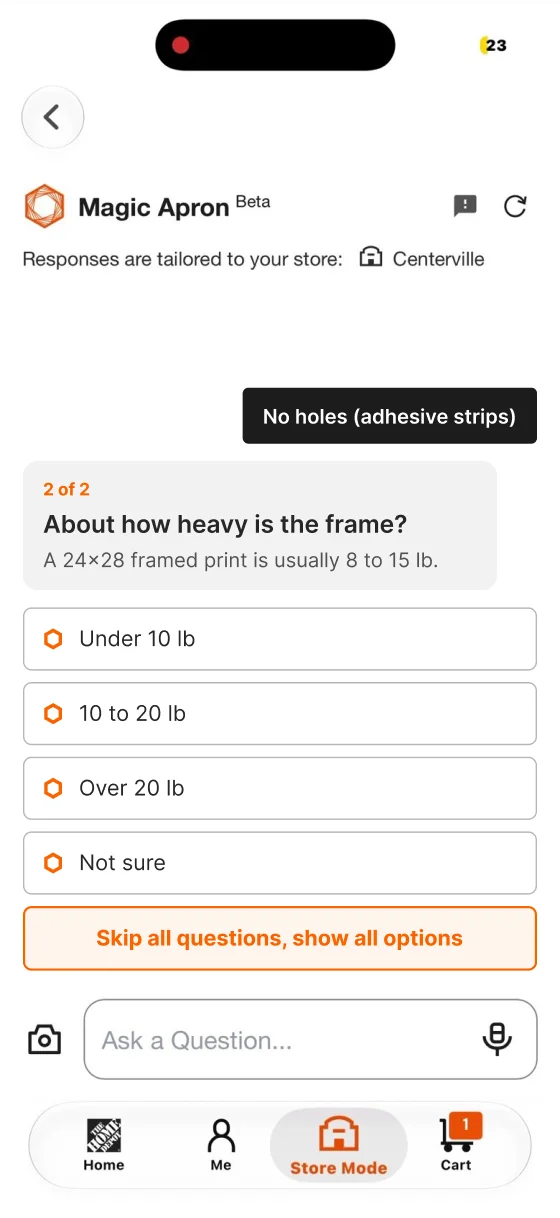
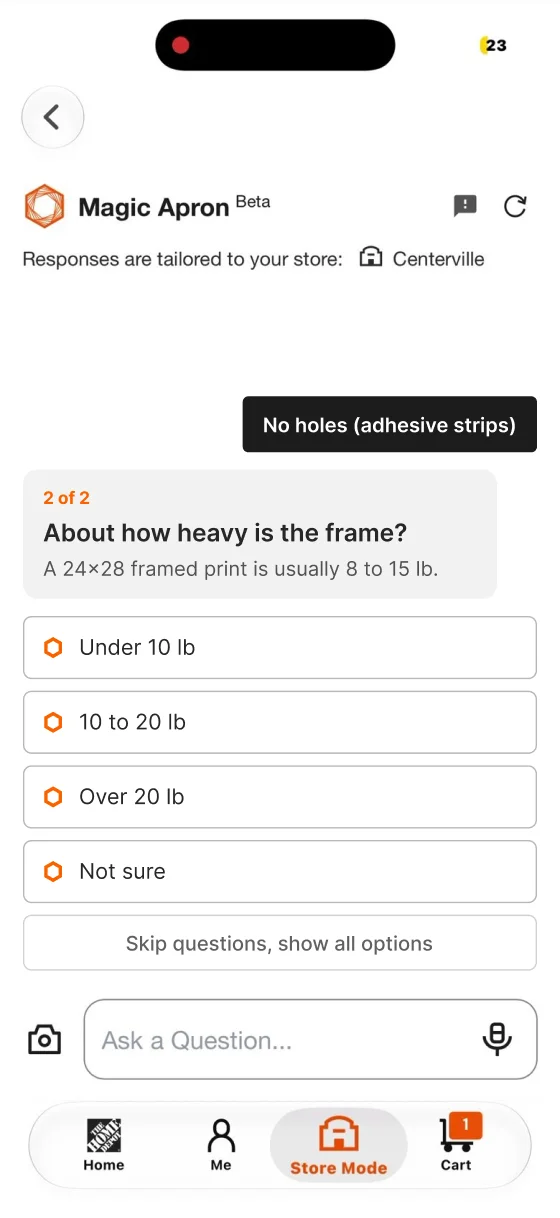
Add files via upload

Changed region(s): [[0.0304, 0.4992, 0.9714, 0.8112], [0.0607, 0.3744, 0.7286, 0.4992], [0.425, 0.312, 0.9714, 0.3744]]

diff --git a/cases/magic-apron.html b/cases/magic-apron.html
@@ -45,7 +45,7 @@
   <main id="main">
     <nav class="crumbs wrap" aria-label="Breadcrumb"><ol><li><a href="../index.html">Home</a></li><li><a href="../index.html#quick">Quick redesign</a></li><li aria-current="page">Magic Apron</li></ol></nav>
     <div class="wrap pdp">
-      <div class="pdp-phones"><div class="phones"><figure class="phone p1"><figcaption><span class="tag">Before</span><span class="sr">: </span>Store Mode today</figcaption><img src="../assets/magic-apron/c1-before.webp" alt="Store Mode answers with hanging kits only, with no adhesive strips." width="560" height="1218"></figure><span class="phones-sep" aria-hidden="true"><svg viewBox="0 0 24 24" fill="none" stroke="currentColor" stroke-linecap="round" stroke-linejoin="round" aria-hidden="true" focusable="false" stroke-width="2"><path d="M5 12h14M13 6l6 6-6 6"/></svg></span><figure class="phone p2"><figcaption><span class="tag after">After</span><span class="sr">: </span>Asks first</figcaption><img src="../assets/magic-apron/c1-after.webp" alt="Store Mode asks how you want to hang it, with three options and Skip all questions." width="560" height="1218"></figure></div></div>
+      <div class="pdp-phones"><div class="phones"><figure class="phone p1"><figcaption><span class="tag">Before</span><span class="sr">: </span>Store Mode today</figcaption><img src="../assets/magic-apron/c1-before.webp" alt="Store Mode answers with hanging kits only, with no adhesive strips." width="560" height="1218"></figure><span class="phones-sep" aria-hidden="true"><svg viewBox="0 0 24 24" fill="none" stroke="currentColor" stroke-linecap="round" stroke-linejoin="round" aria-hidden="true" focusable="false" stroke-width="2"><path d="M5 12h14M13 6l6 6-6 6"/></svg></span><figure class="phone p2"><figcaption><span class="tag after">After</span><span class="sr">: </span>Asks first</figcaption><img src="../assets/magic-apron/c1-after.webp" alt="Store Mode asks how you want to hang it, with three options and a quiet Skip questions button." width="560" height="1218"></figure></div></div>
       <div class="buy">
         <p class="label"><span class="chip c-concept">Concept</span><span>Retail app, AI assistant · 5 min read</span></p>
         <h1>Ask the right question, finish the task</h1>
@@ -74,7 +74,7 @@
         <div class="step-sub ia"><span class="eyebrow">Task analysis</span><p class="ia-intro">Each task broken into steps, with the screen where it happens. An ✕ or ! marks where the task breaks today. A ✓ shows the same step working after the redesign.</p>
           <h3 class="ia-task">Task 1 · Find the right product</h3>
           <div class="ia-row before"><figure class="ia-phone"><img src="../assets/magic-apron/c3-before.webp" alt="The user types Adhesive into the ask bar." width="560" height="1218" loading="lazy"><figcaption>Today: the user has to ask again.</figcaption></figure><div class="ia-flow"><p class="ia-h"><span class="tag">Before</span><span>Step by step</span></p><ol class="ia-steps" role="list"><li class="ok"><span class="ia-ico" aria-hidden="true">✓</span><span class="sr">Done: </span><b>Ask Magic Apron</b><span class="ia-d">&quot;What should I buy to hang a 24×28 frame?&quot;</span></li><li class="warn"><span class="ia-ico" aria-hidden="true">!</span><span class="sr">Friction: </span><b>Read a long answer</b><span class="ia-d">Only hanging kits. The questions sit at the end of the paragraph.</span></li><li class="fail"><span class="ia-ico" aria-hidden="true">✕</span><span class="sr">Fails: </span><b>Ask again</b><span class="ia-d">Types &quot;Adhesive&quot; to get the right item.</span></li><li class="ok"><span class="ia-ico" aria-hidden="true">✓</span><span class="sr">Done: </span><b>Strips appear</b><span class="ia-d">One extra loop later.</span></li></ol><p class="ia-res fail">Extra loop: the user asks twice.</p></div></div>
-          <div class="ia-row after"><figure class="ia-phone"><img src="../assets/magic-apron/c1-after.webp" alt="Magic Apron asks how you want to hang it, with three options and a Skip all questions button." width="560" height="1218" loading="lazy"><figcaption>Redesign: two taps, or skip them.</figcaption></figure><div class="ia-flow"><p class="ia-h"><span class="tag after">After</span><span>Step by step</span></p><ol class="ia-steps" role="list"><li class="ok"><span class="ia-ico" aria-hidden="true">✓</span><span class="sr">Done: </span><b>Ask Magic Apron</b><span class="ia-d">Same question.</span></li><li class="ok"><span class="ia-ico" aria-hidden="true">✓</span><span class="sr">Done: </span><b>Tap: how to hang it</b><span class="ia-d">No holes, nails or hooks, or not sure.</span></li><li class="ok"><span class="ia-ico" aria-hidden="true">✓</span><span class="sr">Done: </span><b>Tap: how heavy</b><span class="ia-d">Or skip all questions and see all options.</span></li><li class="ok"><span class="ia-ico" aria-hidden="true">✓</span><span class="sr">Done: </span><b>Right strips, with the aisle</b><span class="ia-d">Large first, Aisle 15 Bay 10.</span></li><li class="ok"><span class="ia-ico" aria-hidden="true">✓</span><span class="sr">Done: </span><b>Low stock? Buy for pickup</b><span class="ia-d">Pay now, it is set aside.</span></li></ol><p class="ia-res ok">Task complete: the right product, first time.</p></div></div>
+          <div class="ia-row after"><figure class="ia-phone"><img src="../assets/magic-apron/c1-after.webp" alt="Magic Apron asks how you want to hang it, with three options and a quiet Skip questions button." width="560" height="1218" loading="lazy"><figcaption>Redesign: two taps, or skip them.</figcaption></figure><div class="ia-flow"><p class="ia-h"><span class="tag after">After</span><span>Step by step</span></p><ol class="ia-steps" role="list"><li class="ok"><span class="ia-ico" aria-hidden="true">✓</span><span class="sr">Done: </span><b>Ask Magic Apron</b><span class="ia-d">Same question.</span></li><li class="ok"><span class="ia-ico" aria-hidden="true">✓</span><span class="sr">Done: </span><b>Tap: how to hang it</b><span class="ia-d">No holes, nails or hooks, or not sure.</span></li><li class="ok"><span class="ia-ico" aria-hidden="true">✓</span><span class="sr">Done: </span><b>Tap: how heavy</b><span class="ia-d">Or skip, with a quiet button.</span></li><li class="ok"><span class="ia-ico" aria-hidden="true">✓</span><span class="sr">Done: </span><b>Right strips, with the aisle</b><span class="ia-d">Large first, Aisle 15 Bay 10.</span></li><li class="ok"><span class="ia-ico" aria-hidden="true">✓</span><span class="sr">Done: </span><b>Low stock? Pick it up today</b><span class="ia-d">An option, with &quot;Not now&quot; right there.</span></li></ol><p class="ia-res ok">Task complete: the right product, first time.</p></div></div>
           <h3 class="ia-task">Task 2 · The product isn&#x27;t on the shelf</h3>
           <div class="ia-row before"><figure class="ia-phone"><img src="../assets/magic-apron/c7-before.webp" alt="After reporting, the app only shows Thanks for letting us know." width="560" height="1218" loading="lazy"><figcaption>Today: the report ends the flow.</figcaption></figure><div class="ia-flow"><p class="ia-h"><span class="tag">Before</span><span>Step by step</span></p><ol class="ia-steps" role="list"><li class="ok"><span class="ia-ico" aria-hidden="true">✓</span><span class="sr">Done: </span><b>Go to Aisle 15, Bay 10</b><span class="ia-d">The map shows the item in stock.</span></li><li class="fail"><span class="ia-ico" aria-hidden="true">✕</span><span class="sr">Fails: </span><b>Shelf is empty</b><span class="ia-d">The count was wrong.</span></li><li class="warn"><span class="ia-ico" aria-hidden="true">!</span><span class="sr">Friction: </span><b>Find the ••• menu</b><span class="ia-d">Small and unlabeled.</span></li><li class="ok"><span class="ia-ico" aria-hidden="true">✓</span><span class="sr">Done: </span><b>Report it</b><span class="ia-d">Out of Stock.</span></li><li class="fail"><span class="ia-ico" aria-hidden="true">✕</span><span class="sr">Fails: </span><b>&quot;Thanks for letting us know!&quot;</b><span class="ia-d">No next step. The shopper still has no product.</span></li></ol><p class="ia-res fail">Task not complete: no product.</p></div></div>
           <div class="ia-row after"><figure class="ia-phone"><img src="../assets/magic-apron/c7-after.webp" alt="A sheet asks Still need it today? with a similar item, a nearby store, or delivery." width="560" height="1218" loading="lazy"><figcaption>Redesign: three ways to finish.</figcaption></figure><div class="ia-flow"><p class="ia-h"><span class="tag after">After</span><span>Step by step</span></p><ol class="ia-steps" role="list"><li class="ok"><span class="ia-ico" aria-hidden="true">✓</span><span class="sr">Done: </span><b>Go to Aisle 15, Bay 10</b><span class="ia-d">Same as before.</span></li><li class="fail"><span class="ia-ico" aria-hidden="true">✕</span><span class="sr">Fails: </span><b>Shelf is empty</b><span class="ia-d">This can still happen.</span></li><li class="ok"><span class="ia-ico" aria-hidden="true">✓</span><span class="sr">Done: </span><b>Tap &quot;Can&#x27;t find it?&quot;</b><span class="ia-d">A labeled button on the card.</span></li><li class="ok"><span class="ia-ico" aria-hidden="true">✓</span><span class="sr">Done: </span><b>Report it, with Undo</b><span class="ia-d">The store still gets the signal.</span></li><li class="ok"><span class="ia-ico" aria-hidden="true">✓</span><span class="sr">Done: </span><b>Pick a way forward</b><span class="ia-d">Similar item, nearby store, or delivery.</span></li></ol><p class="ia-res ok">Task complete: the shopper leaves with a product, or one on its way.</p></div></div>
@@ -84,7 +84,7 @@
 
     <section class="step" id="ideate" data-step aria-labelledby="ideate-h">
       <div class="wrap">
-        <div class="step-grid"><div class="step-text"><span class="step-n"><span class="num" aria-hidden="true">3</span>Step 3 of 6 · Ideate</span><h2 id="ideate-h">Ideas I weighed, and what I picked</h2><p>I judged each idea on effort for the user, effort to build, and how much it changes the existing app.</p><ul class="points" role="list"><li>For problem 1, I considered showing every product type every time, keeping the questions in the paragraph, and a filter panel. I picked <b>tap-to-answer options for the 1 or 2 most important questions</b>, with &quot;Skip all questions&quot; so the user stays in charge.</li><li>For problem 2, I considered a thank-you toast, sending the shopper to an associate, and &quot;Notify me when it&#x27;s back.&quot; I picked <b>&quot;Still need it today?&quot;</b> with a similar item, a nearby store or delivery, and kept &quot;Notify me&quot; as a backup.</li><li>And when stock is low, I first tried <b>&quot;Reserve it&quot;</b> with no payment. A store can&#x27;t hold an item without one, so it became <b>&quot;Buy now, pick up today&quot;</b>: pay through the existing checkout, held until close, refunded automatically if not picked up.</li></ul></div><figure class="step-visual"><div class="frame auto"><div class="cv cv-cols"><div class="cv-card"><p class="cv-title">Task 1: 2 questions</p><ul role="list"><li>How do you want to hang it? This is the most important one.</li><li>About how heavy is the frame?</li><li>Skip all questions, show everything.</li></ul></div><div class="cv-card"><p class="cv-title">Task 2: 3 ways forward</p><ul role="list"><li>A similar item in the same aisle.</li><li>The same item at a nearby store.</li><li>Delivery, plus &quot;Notify me when it&#x27;s back.&quot;</li></ul></div></div></div><figcaption>The rule: ask only what changes the answer, and let the user skip.</figcaption></figure></div>
+        <div class="step-grid"><div class="step-text"><span class="step-n"><span class="num" aria-hidden="true">3</span>Step 3 of 6 · Ideate</span><h2 id="ideate-h">Ideas I weighed, and what I picked</h2><p>I judged each idea on effort for the user, effort to build, and how much it changes the existing app.</p><ul class="points" role="list"><li>For problem 1, I considered showing every product type every time, keeping the questions in the paragraph, and a filter panel. I picked <b>tap-to-answer options for the 1 or 2 most important questions</b>, with a quiet &quot;Skip questions&quot; for anyone who wants it, so answering stays the main path.</li><li>For problem 2, I considered a thank-you toast, sending the shopper to an associate, and &quot;Notify me when it&#x27;s back.&quot; I picked <b>&quot;Still need it today?&quot;</b> with a similar item, a nearby store or delivery, and kept &quot;Notify me&quot; as a backup.</li><li>And when stock is low, I first tried <b>&quot;Reserve it&quot;</b> with no payment. A store can&#x27;t hold an item without one, so it became an optional <b>&quot;Buy for pickup&quot;</b>: a simple sheet with the product photo, price and pickup place, and a &quot;Not now&quot; button. No pressure.</li></ul></div><figure class="step-visual"><div class="frame auto"><div class="cv cv-cols"><div class="cv-card"><p class="cv-title">Task 1: 2 questions</p><ul role="list"><li>How do you want to hang it? This is the most important one.</li><li>About how heavy is the frame?</li><li>A quiet &quot;Skip questions&quot; for anyone who wants it.</li></ul></div><div class="cv-card"><p class="cv-title">Task 2: 3 ways forward</p><ul role="list"><li>A similar item in the same aisle.</li><li>The same item at a nearby store.</li><li>Delivery, plus &quot;Notify me when it&#x27;s back.&quot;</li></ul></div></div></div><figcaption>The rule: ask only what changes the answer, and let the user skip.</figcaption></figure></div>
       </div>
     </section>
 
@@ -98,11 +98,11 @@
     <section class="step hl" id="redesign" data-step aria-labelledby="redesign-h">
       <div class="wrap">
         <div class="step-grid solo"><div class="step-text"><span class="step-n"><span class="num" aria-hidden="true">5</span>Step 5 of 6 · Redesign</span><h2 id="redesign-h">Six small changes, and the principle behind each</h2><p>Each pair shows the real app today next to my redesign of the same screen. Everything else stays as The Home Depot built it.</p></div></div><ol class="ba-list" role="list">
-            <li class="ba" id="change-1"><div class="phones"><figure class="phone p1"><figcaption><span class="tag">Before</span><span class="sr">: </span>The app today</figcaption><img src="../assets/magic-apron/c1-before.webp" alt="Store Mode answers with hanging kits only, with no adhesive strips." width="560" height="1218" loading="lazy"></figure><span class="phones-sep" aria-hidden="true"><svg viewBox="0 0 24 24" fill="none" stroke="currentColor" stroke-linecap="round" stroke-linejoin="round" aria-hidden="true" focusable="false" stroke-width="2"><path d="M5 12h14M13 6l6 6-6 6"/></svg></span><figure class="phone p2"><figcaption><span class="tag after">After</span><span class="sr">: </span>My redesign</figcaption><img src="../assets/magic-apron/c1-after.webp" alt="Store Mode asks, 1 of 2, most important: How do you want to hang it? Options: No holes (adhesive strips), Nails or hooks (permanent), Not sure, show both. Below: Skip all questions, show everything." width="560" height="1218" loading="lazy"></figure></div><div class="ba-text"><span class="dec-n">Change 1 · Store</span><h3>Ask the most important question first</h3><p>Instead of guessing &quot;hanging kit,&quot; Magic Apron asks how you want to hang it before it shows any product. In my interview, this one question would have caught &quot;adhesive.&quot;</p><p class="ba-why-h">UX principles</p><ul class="ba-why" role="list"><li><b>Error prevention.</b> It catches the wrong product before it is shown, not after.</li><li><b>Recognition over recall.</b> Three options to tap, instead of typing &quot;Adhesive.&quot;</li></ul></div></li>
-            <li class="ba" id="change-2"><div class="phones"><figure class="phone p1"><figcaption><span class="tag">Before</span><span class="sr">: </span>The app today</figcaption><img src="../assets/magic-apron/c2-before.webp" alt="Magic Apron asks about frame weight and installation at the end of a long paragraph." width="560" height="1218" loading="lazy"></figure><span class="phones-sep" aria-hidden="true"><svg viewBox="0 0 24 24" fill="none" stroke="currentColor" stroke-linecap="round" stroke-linejoin="round" aria-hidden="true" focusable="false" stroke-width="2"><path d="M5 12h14M13 6l6 6-6 6"/></svg></span><figure class="phone p2"><figcaption><span class="tag after">After</span><span class="sr">: </span>My redesign</figcaption><img src="../assets/magic-apron/c2-after.webp" alt="Question 2 of 2, About how heavy is the frame? A 24 by 28 framed print is usually 8 to 15 lb. Four options to tap and a Skip all questions link." width="560" height="1218" loading="lazy"></figure></div><div class="ba-text"><span class="dec-n">Change 2 · Store</span><h3>Questions as taps, with &quot;Skip all questions&quot;</h3><p>Questions move out of the paragraph into their own card, ranked by importance: 1 of 2, then 2 of 2. Every question has &quot;Skip all questions, show everything,&quot; so the shopper decides.</p><p class="ba-why-h">UX principles</p><ul class="ba-why" role="list"><li><b>Visibility.</b> A question that looks like a question gets answered.</li><li><b>User control and freedom.</b> Skip all questions at any point.</li><li><b>Hick&#x27;s law.</b> Three or four short options, not open text.</li></ul></div></li>
+            <li class="ba" id="change-1"><div class="phones"><figure class="phone p1"><figcaption><span class="tag">Before</span><span class="sr">: </span>The app today</figcaption><img src="../assets/magic-apron/c1-before.webp" alt="Store Mode answers with hanging kits only, with no adhesive strips." width="560" height="1218" loading="lazy"></figure><span class="phones-sep" aria-hidden="true"><svg viewBox="0 0 24 24" fill="none" stroke="currentColor" stroke-linecap="round" stroke-linejoin="round" aria-hidden="true" focusable="false" stroke-width="2"><path d="M5 12h14M13 6l6 6-6 6"/></svg></span><figure class="phone p2"><figcaption><span class="tag after">After</span><span class="sr">: </span>My redesign</figcaption><img src="../assets/magic-apron/c1-after.webp" alt="Store Mode asks, 1 of 2, most important: How do you want to hang it? Options: No holes (adhesive strips), Nails or hooks (permanent), Not sure, show both. Below, a quiet button: Skip questions, show all options." width="560" height="1218" loading="lazy"></figure></div><div class="ba-text"><span class="dec-n">Change 1 · Store</span><h3>Ask the most important question first</h3><p>Instead of guessing &quot;hanging kit,&quot; Magic Apron asks how you want to hang it before it shows any product. In my interview, this one question would have caught &quot;adhesive.&quot;</p><p class="ba-why-h">UX principles</p><ul class="ba-why" role="list"><li><b>Error prevention.</b> It catches the wrong product before it is shown, not after.</li><li><b>Recognition over recall.</b> Three options to tap, instead of typing &quot;Adhesive.&quot;</li></ul></div></li>
+            <li class="ba" id="change-2"><div class="phones"><figure class="phone p1"><figcaption><span class="tag">Before</span><span class="sr">: </span>The app today</figcaption><img src="../assets/magic-apron/c2-before.webp" alt="Magic Apron asks about frame weight and installation at the end of a long paragraph." width="560" height="1218" loading="lazy"></figure><span class="phones-sep" aria-hidden="true"><svg viewBox="0 0 24 24" fill="none" stroke="currentColor" stroke-linecap="round" stroke-linejoin="round" aria-hidden="true" focusable="false" stroke-width="2"><path d="M5 12h14M13 6l6 6-6 6"/></svg></span><figure class="phone p2"><figcaption><span class="tag after">After</span><span class="sr">: </span>My redesign</figcaption><img src="../assets/magic-apron/c2-after.webp" alt="Question 2 of 2, About how heavy is the frame? A 24 by 28 framed print is usually 8 to 15 lb. Four options to tap, and a quiet Skip questions button." width="560" height="1218" loading="lazy"></figure></div><div class="ba-text"><span class="dec-n">Change 2 · Store</span><h3>Questions as taps, answering comes first</h3><p>Questions move out of the paragraph into their own card, ranked by importance: 1 of 2, then 2 of 2. The answers are the big, clear choices. A quiet &quot;Skip questions, show all options&quot; stays at the bottom for anyone who wants it.</p><p class="ba-why-h">UX principles</p><ul class="ba-why" role="list"><li><b>Visibility.</b> A question that looks like a question gets answered.</li><li><b>User control and freedom.</b> Skipping is always possible, but quiet, so answering stays the main path.</li><li><b>Hick&#x27;s law.</b> Three or four short options, not open text.</li></ul></div></li>
             <li class="ba" id="change-3"><div class="phones"><figure class="phone p1"><figcaption><span class="tag">Before</span><span class="sr">: </span>The app today</figcaption><img src="../assets/magic-apron/c3-before.webp" alt="The user has to type &quot;Adhesive&quot; to get strips." width="560" height="1218" loading="lazy"></figure><span class="phones-sep" aria-hidden="true"><svg viewBox="0 0 24 24" fill="none" stroke="currentColor" stroke-linecap="round" stroke-linejoin="round" aria-hidden="true" focusable="false" stroke-width="2"><path d="M5 12h14M13 6l6 6-6 6"/></svg></span><figure class="phone p2"><figcaption><span class="tag after">After</span><span class="sr">: </span>My redesign</figcaption><img src="../assets/magic-apron/c3-after.webp" alt="For a 24 by 28 frame, 10 to 20 lb, with no holes, Large strips come first with the aisle, Aisle 15 Bay 10." width="560" height="1218" loading="lazy"></figure></div><div class="ba-text"><span class="dec-n">Change 3 · Store</span><h3>The right items, with the aisle</h3><p>The answer uses the shopper&#x27;s own words: no holes, 10 to 20 lb. Large strips come first, both in Aisle 15 Bay 10. Nails and hooks are one tap away, not the default.</p><p class="ba-why-h">UX principles</p><ul class="ba-why" role="list"><li><b>Match the real world.</b> Results repeat what the user chose.</li><li><b>Flexibility.</b> The other option is one tap away.</li></ul></div></li>
-            <li class="ba" id="change-4"><div class="phones"><figure class="phone p1"><figcaption><span class="tag">Before</span><span class="sr">: </span>The app today</figcaption><img src="../assets/magic-apron/c8-before.webp" alt="A card shows 4 in stock with no way to set one aside." width="560" height="1218" loading="lazy"></figure><span class="phones-sep" aria-hidden="true"><svg viewBox="0 0 24 24" fill="none" stroke="currentColor" stroke-linecap="round" stroke-linejoin="round" aria-hidden="true" focusable="false" stroke-width="2"><path d="M5 12h14M13 6l6 6-6 6"/></svg></span><figure class="phone p2"><figcaption><span class="tag after">After</span><span class="sr">: </span>My redesign</figcaption><img src="../assets/magic-apron/c8-after.webp" alt="A sheet says Only 2 left, buy now, pick up today: pick up at Centerville Customer Service, ready in about 2 hours and held until the store closes (example times). If not picked up, it is canceled and refunded automatically. Button: Continue to checkout." width="560" height="1218" loading="lazy"></figure></div><div class="ba-text"><span class="dec-n">Change 4 · Store</span><h3>Low stock? Buy now, pick up today</h3><p>When fewer than 5 are left, the card says &quot;Only 2 left&quot; with &quot;Buy for pickup.&quot; The shopper pays through the existing checkout, the store sets the item aside, and it is held until close. If it is not picked up, the order is canceled and refunded automatically.</p><p class="ba-why-h">UX principles</p><ul class="ba-why" role="list"><li><b>Visibility of system status.</b> Low stock is said in words, when it matters.</li><li><b>Business fit.</b> Paying first commits the item, and it reuses the pickup flow Home Depot already has.</li></ul></div></li>
-            <li class="ba" id="change-5"><div class="phones"><figure class="phone p1"><figcaption><span class="tag">Before</span><span class="sr">: </span>The app today</figcaption><img src="../assets/magic-apron/c6-before.webp" alt="The store map with the three-dot menu open: Wrong Location, Out of Stock, Inaccurate Inventory." width="560" height="1218" loading="lazy"></figure><span class="phones-sep" aria-hidden="true"><svg viewBox="0 0 24 24" fill="none" stroke="currentColor" stroke-linecap="round" stroke-linejoin="round" aria-hidden="true" focusable="false" stroke-width="2"><path d="M5 12h14M13 6l6 6-6 6"/></svg></span><figure class="phone p2"><figcaption><span class="tag after">After</span><span class="sr">: </span>My redesign</figcaption><img src="../assets/magic-apron/c6-after.webp" alt="The store map card now has a Can&#x27;t find it? button next to the stock count." width="560" height="1218" loading="lazy"></figure></div><div class="ba-text"><span class="dec-n">Change 5 · Store</span><h3>A visible &quot;Can&#x27;t find it?&quot; button</h3><p>A labeled button on the product card replaces the small three-dot menu.</p><p class="ba-why-h">UX principles</p><ul class="ba-why" role="list"><li><b>Fitts&#x27;s law.</b> A labeled button beats a small three-dot target.</li></ul></div></li>
+            <li class="ba" id="change-4"><div class="phones"><figure class="phone p1"><figcaption><span class="tag">Before</span><span class="sr">: </span>The app today</figcaption><img src="../assets/magic-apron/c8-before.webp" alt="A card shows 4 in stock with no way to set one aside." width="560" height="1218" loading="lazy"></figure><span class="phones-sep" aria-hidden="true"><svg viewBox="0 0 24 24" fill="none" stroke="currentColor" stroke-linecap="round" stroke-linejoin="round" aria-hidden="true" focusable="false" stroke-width="2"><path d="M5 12h14M13 6l6 6-6 6"/></svg></span><figure class="phone p2"><figcaption><span class="tag after">After</span><span class="sr">: </span>My redesign</figcaption><img src="../assets/magic-apron/c8-after.webp" alt="A simple sheet asks Want to pick it up today? It shows a photo of Command Large strips, $5.47, Only 2 left at Centerville, the pickup place, a Buy for pickup button and a Not now button." width="560" height="1218" loading="lazy"></figure></div><div class="ba-text"><span class="dec-n">Change 4 · Store</span><h3>Low stock? Offer pickup today</h3><p>When fewer than 5 are left, a light &quot;Only 2 left&quot; note appears with &quot;Buy for pickup.&quot; Tapping it opens a simple sheet: the product photo, the price, and where to pick it up. &quot;Not now&quot; is right there, so it is an option, not pressure.</p><p class="ba-why-h">UX principles</p><ul class="ba-why" role="list"><li><b>Aesthetic and minimalist design.</b> Only what you need to decide: photo, price and pickup place.</li><li><b>User control and freedom.</b> &quot;Not now&quot; closes it. Buying is a choice, not a push.</li></ul></div></li>
+            <li class="ba" id="change-5"><div class="phones"><figure class="phone p1"><figcaption><span class="tag">Before</span><span class="sr">: </span>The app today</figcaption><img src="../assets/magic-apron/c6-before.webp" alt="The store map with the three-dot menu open: Wrong Location, Out of Stock, Inaccurate Inventory." width="560" height="1218" loading="lazy"></figure><span class="phones-sep" aria-hidden="true"><svg viewBox="0 0 24 24" fill="none" stroke="currentColor" stroke-linecap="round" stroke-linejoin="round" aria-hidden="true" focusable="false" stroke-width="2"><path d="M5 12h14M13 6l6 6-6 6"/></svg></span><figure class="phone p2"><figcaption><span class="tag after">After</span><span class="sr">: </span>My redesign</figcaption><img src="../assets/magic-apron/c6-after.webp" alt="The store map card now has a Can&#x27;t find it? button at the top right of the product card." width="560" height="1218" loading="lazy"></figure></div><div class="ba-text"><span class="dec-n">Change 5 · Store</span><h3>A visible &quot;Can&#x27;t find it?&quot; button</h3><p>A labeled button on the product card replaces the small three-dot menu.</p><p class="ba-why-h">UX principles</p><ul class="ba-why" role="list"><li><b>Fitts&#x27;s law.</b> A labeled button beats a small three-dot target.</li></ul></div></li>
             <li class="ba" id="change-6"><div class="phones"><figure class="phone p1"><figcaption><span class="tag">Before</span><span class="sr">: </span>The app today</figcaption><img src="../assets/magic-apron/c7-before.webp" alt="After reporting, the app only shows Thanks for letting us know." width="560" height="1218" loading="lazy"></figure><span class="phones-sep" aria-hidden="true"><svg viewBox="0 0 24 24" fill="none" stroke="currentColor" stroke-linecap="round" stroke-linejoin="round" aria-hidden="true" focusable="false" stroke-width="2"><path d="M5 12h14M13 6l6 6-6 6"/></svg></span><figure class="phone p2"><figcaption><span class="tag after">After</span><span class="sr">: </span>My redesign</figcaption><img src="../assets/magic-apron/c7-after.webp" alt="A sheet confirms the report with an Undo and asks Still need it today?, with three ways to finish: similar item same aisle, same item at a nearby store, or delivery." width="560" height="1218" loading="lazy"></figure></div><div class="ba-text"><span class="dec-n">Change 6 · Store</span><h3>Report, then finish the task</h3><p>The shopper still gets a thank-you, plus &quot;Still need it today?&quot; with a similar item in the same aisle, the same item at a nearby store, or delivery. There is an Undo, and &quot;Notify me when it&#x27;s back.&quot;</p><p class="ba-why-h">UX principles</p><ul class="ba-why" role="list"><li><b>Help users recover from errors.</b> The task ends with the product, not a dead end.</li><li><b>User control and freedom.</b> Undo, if it was reported by mistake.</li></ul></div></li>
           </ol>
       </div>
@@ -110,7 +110,7 @@
 
     <section class="step" id="measure" data-step aria-labelledby="measure-h">
       <div class="wrap">
-        <div class="step-grid"><div class="step-text"><span class="step-n"><span class="num" aria-hidden="true">6</span>Step 6 of 6 · Measure</span><h2 id="measure-h">How I&#x27;d measure it</h2><p>These are hypotheses, not results. I&#x27;d test them on Magic Apron sessions and watch:</p><ul class="points" role="list"><li>How often people have to ask again in the same chat</li><li>How often people answer the questions or skip them</li><li>Add-to-cart rate, and pickup orders on low-stock items</li><li>&quot;Can&#x27;t find it&quot; reports that still end in a purchase</li></ul><p class="why"><b>A trade-off I named:</b> every question costs a tap. That&#x27;s why there are only two, the most important one comes first, and &quot;Skip all questions&quot; is always there.</p></div><figure class="step-visual"><div class="frame auto"><div class="cv cv-card"><p class="cv-title">Why the business cares</p><ul role="list"><li><b>Trust.</b><span>Fewer re-asks means more trust in the AI, so people use it more.</span></li><li><b>Saved sales.</b><span>An empty shelf that offers another option is a saved sale, not a lost one.</span></li><li><b>Better inventory.</b><span>The report still reaches the store.</span></li><li><b>Cheap to test.</b><span>Small patches on existing screens are cheap to build and easy to test.</span></li></ul></div></div></figure></div><div class="step-sub"><span class="eyebrow">Limits and next steps</span><ul class="learn" role="list"><li><h3>Limits</h3><p>One interview plus my own walkthroughs is a signal, not proof. Stock counts, pickup times and the nearby store in the redesign are illustrative.</p></li><li><h3>Next</h3><p>Test with 5 first-time DIYers, at home and in the store, measure how often people skip the questions, and do an accessibility pass.</p></li></ul></div>
+        <div class="step-grid"><div class="step-text"><span class="step-n"><span class="num" aria-hidden="true">6</span>Step 6 of 6 · Measure</span><h2 id="measure-h">How I&#x27;d measure it</h2><p>These are hypotheses, not results. I&#x27;d test them on Magic Apron sessions and watch:</p><ul class="points" role="list"><li>How often people have to ask again in the same chat</li><li>How often people answer the questions or skip them</li><li>Add-to-cart rate, and pickup orders on low-stock items</li><li>&quot;Can&#x27;t find it&quot; reports that still end in a purchase</li></ul><p class="why"><b>A trade-off I named:</b> every question costs a tap. That&#x27;s why there are only two, the most important one comes first, and a quiet &quot;Skip questions&quot; is always there.</p></div><figure class="step-visual"><div class="frame auto"><div class="cv cv-card"><p class="cv-title">Why the business cares</p><ul role="list"><li><b>Trust.</b><span>Fewer re-asks means more trust in the AI, so people use it more.</span></li><li><b>Saved sales.</b><span>An empty shelf that offers another option is a saved sale, not a lost one.</span></li><li><b>Better inventory.</b><span>The report still reaches the store.</span></li><li><b>Cheap to test.</b><span>Small patches on existing screens are cheap to build and easy to test.</span></li></ul></div></div></figure></div><div class="step-sub"><span class="eyebrow">Limits and next steps</span><ul class="learn" role="list"><li><h3>Limits</h3><p>One interview plus my own walkthroughs is a signal, not proof. Stock counts and the nearby store in the redesign are illustrative.</p></li><li><h3>Next</h3><p>Test with 5 first-time DIYers, at home and in the store, measure how often people skip the questions, and do an accessibility pass.</p></li></ul></div>
       </div>
     </section>
 

diff --git a/index.html b/index.html
@@ -140,7 +140,7 @@
           <div class="btn-row"><a class="btn btn-primary" href="cases/magic-apron.html">Read the case study<span class="sr"> on Magic Apron</span><svg viewBox="0 0 24 24" fill="none" stroke="currentColor" stroke-linecap="round" stroke-linejoin="round" aria-hidden="true" focusable="false" stroke-width="2"><path d="M5 12h14M13 6l6 6-6 6"/></svg></a></div>
           <p class="quick-note"><span class="chip c-concept">Concept</span><span>Not affiliated with or endorsed by The Home Depot.</span></p>
         </div>
-        <div class="phones"><figure class="phone p1"><figcaption><span class="tag">Before</span><span class="sr">: </span>Store Mode today</figcaption><img src="assets/magic-apron/c1-before.webp" alt="Store Mode answers with hanging kits only, with no adhesive strips." width="560" height="1218" loading="lazy"></figure><span class="phones-sep" aria-hidden="true"><svg viewBox="0 0 24 24" fill="none" stroke="currentColor" stroke-linecap="round" stroke-linejoin="round" aria-hidden="true" focusable="false" stroke-width="2"><path d="M5 12h14M13 6l6 6-6 6"/></svg></span><figure class="phone p2"><figcaption><span class="tag after">After</span><span class="sr">: </span>Asks first</figcaption><img src="assets/magic-apron/c1-after.webp" alt="Store Mode asks how you want to hang it, with three options and Skip all questions." width="560" height="1218" loading="lazy"></figure></div>
+        <div class="phones"><figure class="phone p1"><figcaption><span class="tag">Before</span><span class="sr">: </span>Store Mode today</figcaption><img src="assets/magic-apron/c1-before.webp" alt="Store Mode answers with hanging kits only, with no adhesive strips." width="560" height="1218" loading="lazy"></figure><span class="phones-sep" aria-hidden="true"><svg viewBox="0 0 24 24" fill="none" stroke="currentColor" stroke-linecap="round" stroke-linejoin="round" aria-hidden="true" focusable="false" stroke-width="2"><path d="M5 12h14M13 6l6 6-6 6"/></svg></span><figure class="phone p2"><figcaption><span class="tag after">After</span><span class="sr">: </span>Asks first</figcaption><img src="assets/magic-apron/c1-after.webp" alt="Store Mode asks how you want to hang it, with three options and a quiet Skip questions button." width="560" height="1218" loading="lazy"></figure></div>
       </div>
     </section>
 
